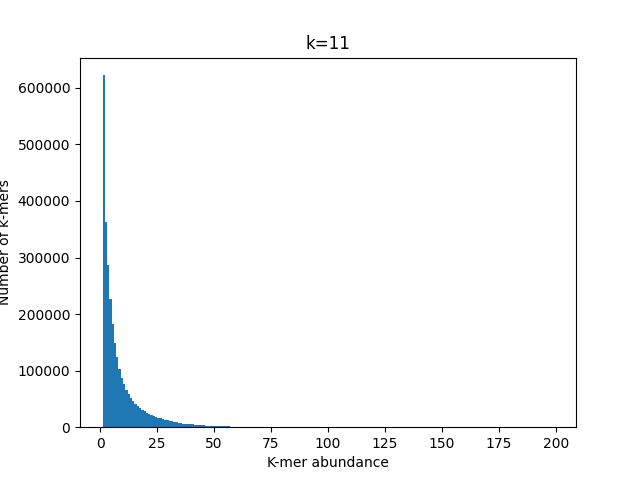
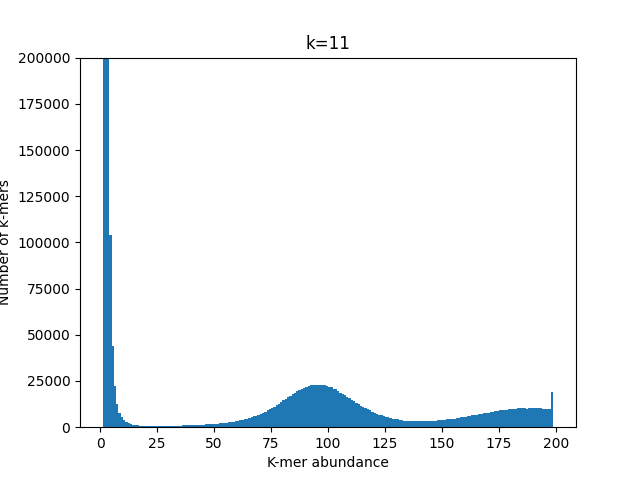
feat: updated k11-41 histograms

diff --git a/optikmer.py b/optikmer.py
@@ -2,11 +2,13 @@ from collections import Counter
 from Bio import SeqIO
 import random
 import matplotlib.pyplot as plt
+import math
 import argparse
 
 # Initialize possible k-mer lengths & empty dictionary for k-mer counts
 kmer_lengths = [11, 21, 31, 41, 51, 61, 71, 81, 91]
 test_kmer_lengths = [18]
+test_kmer_lengths_2 = [19]
 kmer_counts = Counter()
 
 # plot the distribution of kmer counts for specific kmer length
@@ -21,9 +23,11 @@ def plotKmerCounts(k):
 
 def getSampleReads(fastq_file):
   reads = []
+  record_count = 0
   for record in SeqIO.parse(fastq_file, "fastq"):
     reads.append(str(record.seq))
-  return reads
+    record_count += 1
+  return random.sample(reads, math.ceil(record_count * 0.75)) # sample 10% of reads
   # return random.sample(reads, 10000) # sample 10000
 
 def recordKmers(reads, kmer_len): # also used by kmergenie
@@ -45,7 +49,7 @@ def main():
   # Extract reads from each fastq file with getReads function (defined above)
   # and record it in kmer_counts dictionary
   file_reads = getSampleReads(rfiles)
-  for k in test_kmer_lengths:
+  for k in kmer_lengths:
     recordKmers(file_reads, k)
     kmer_counts.clear()
   
